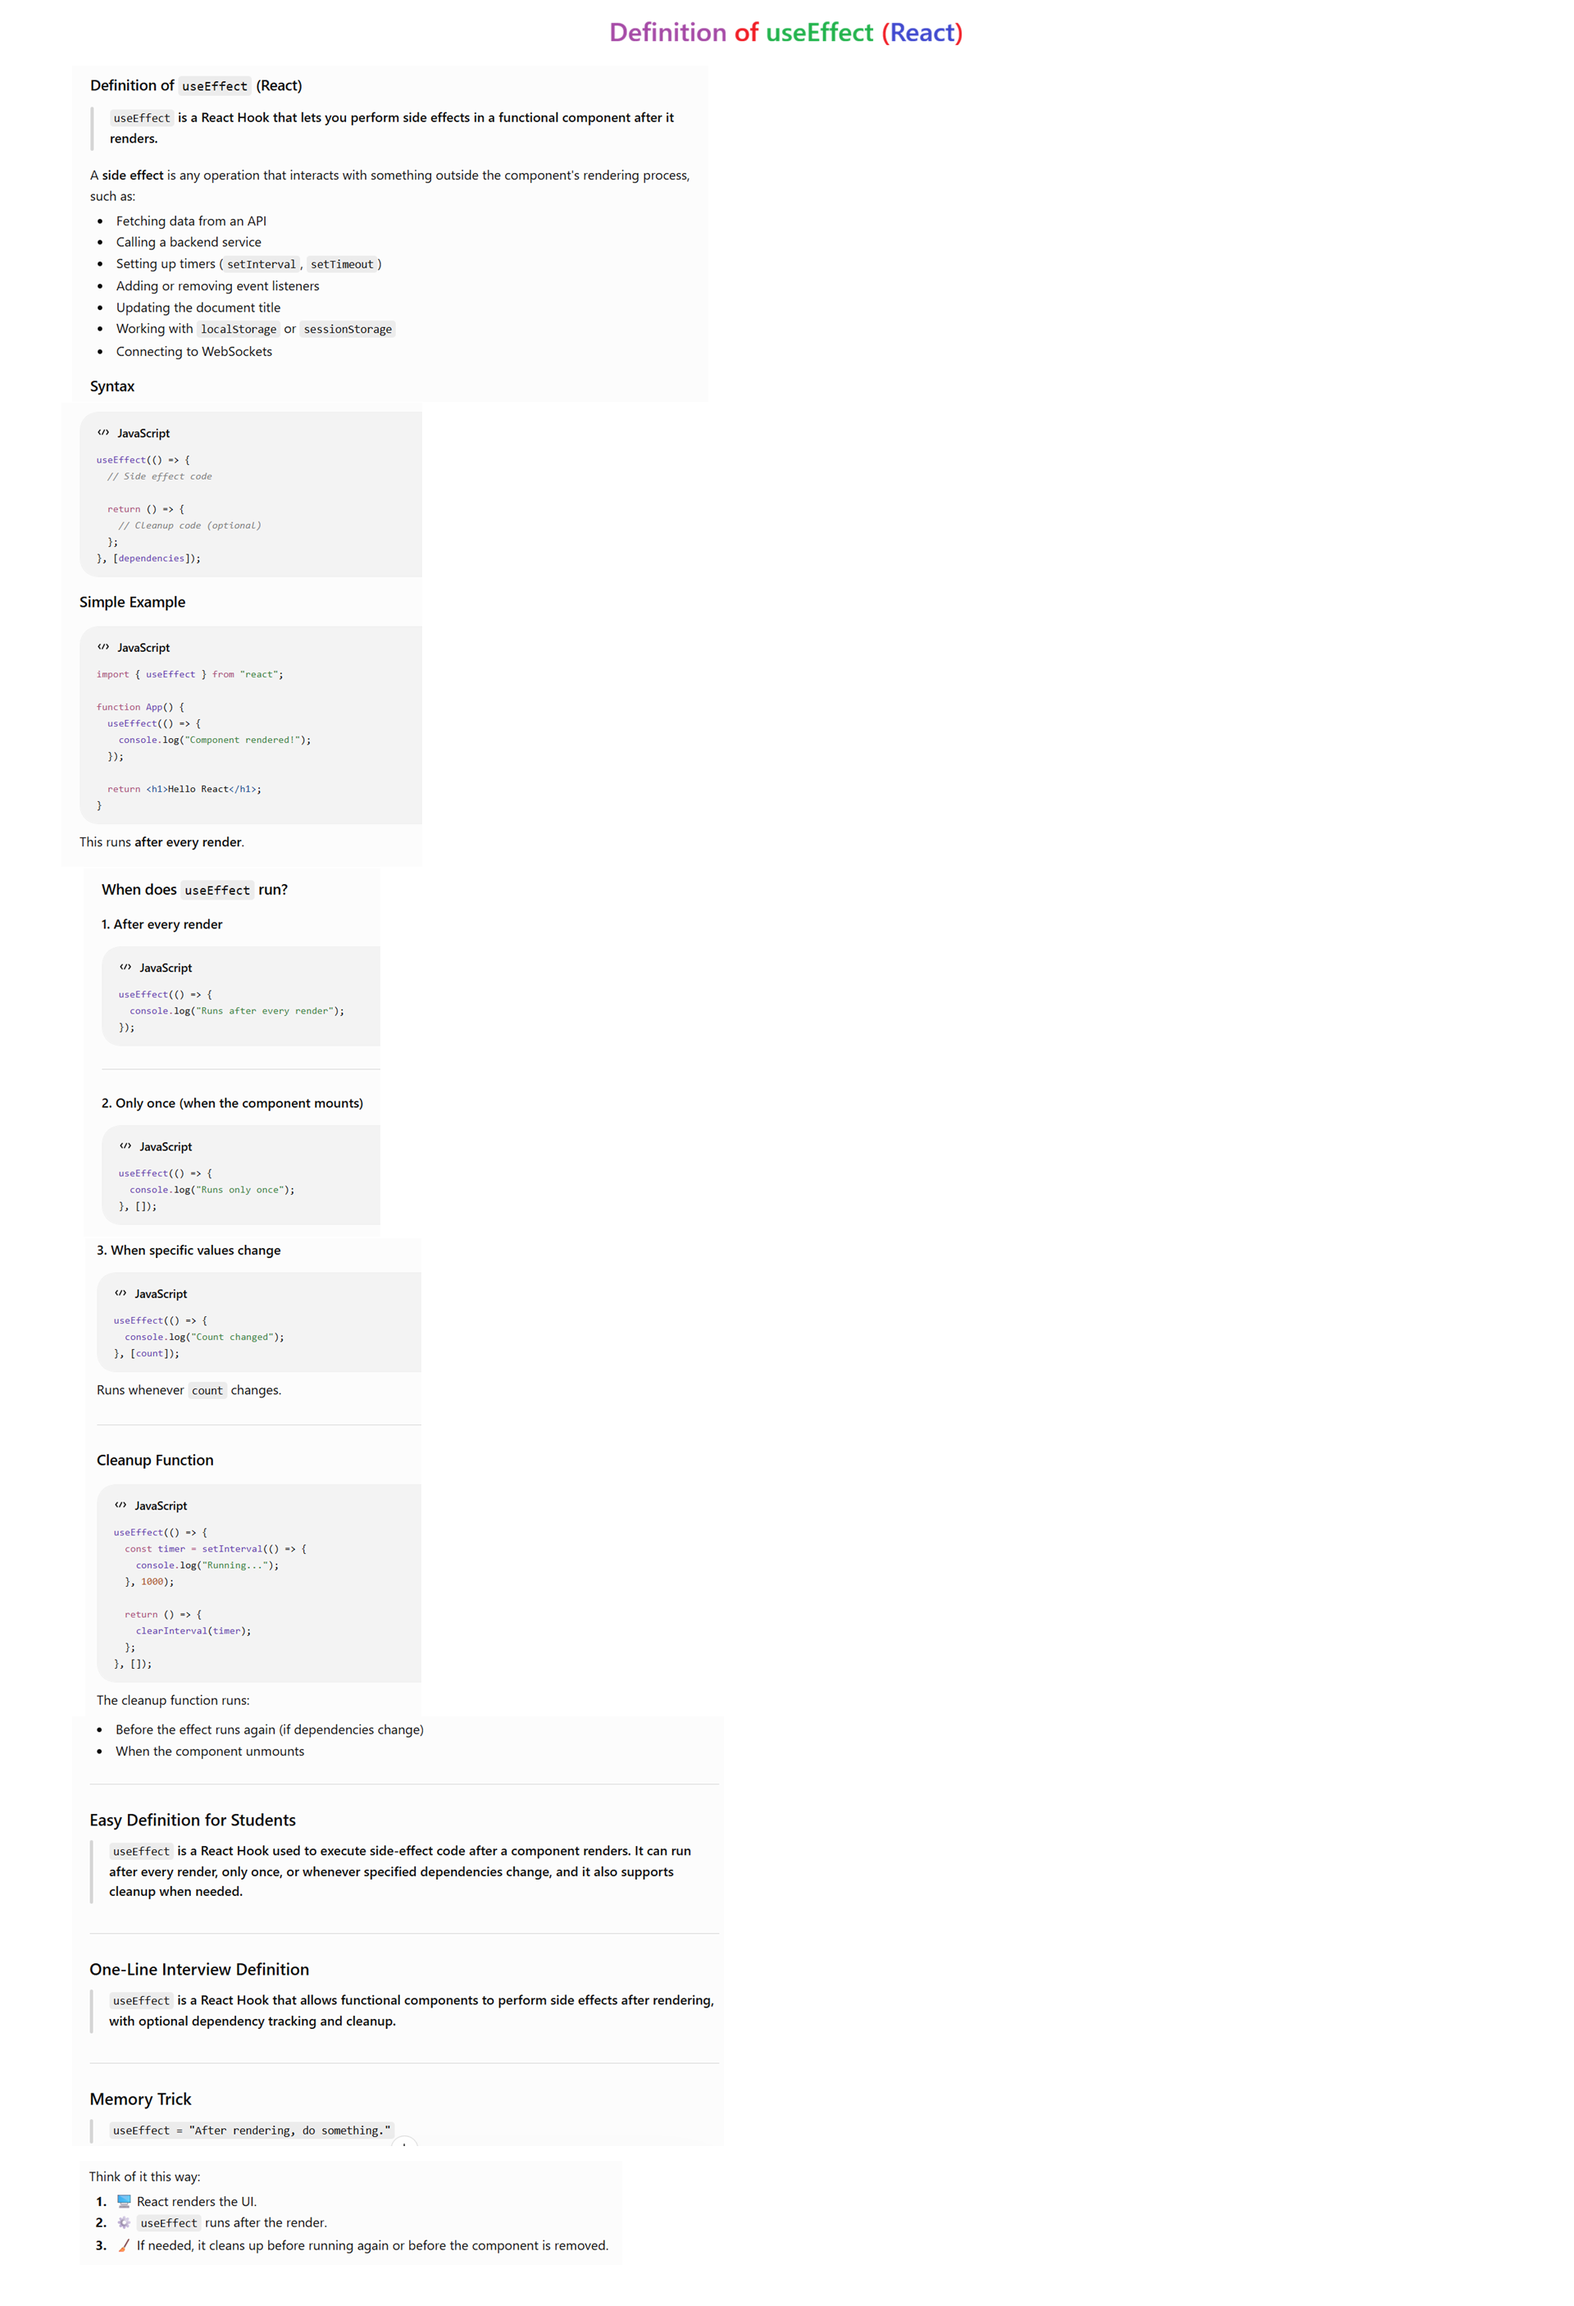
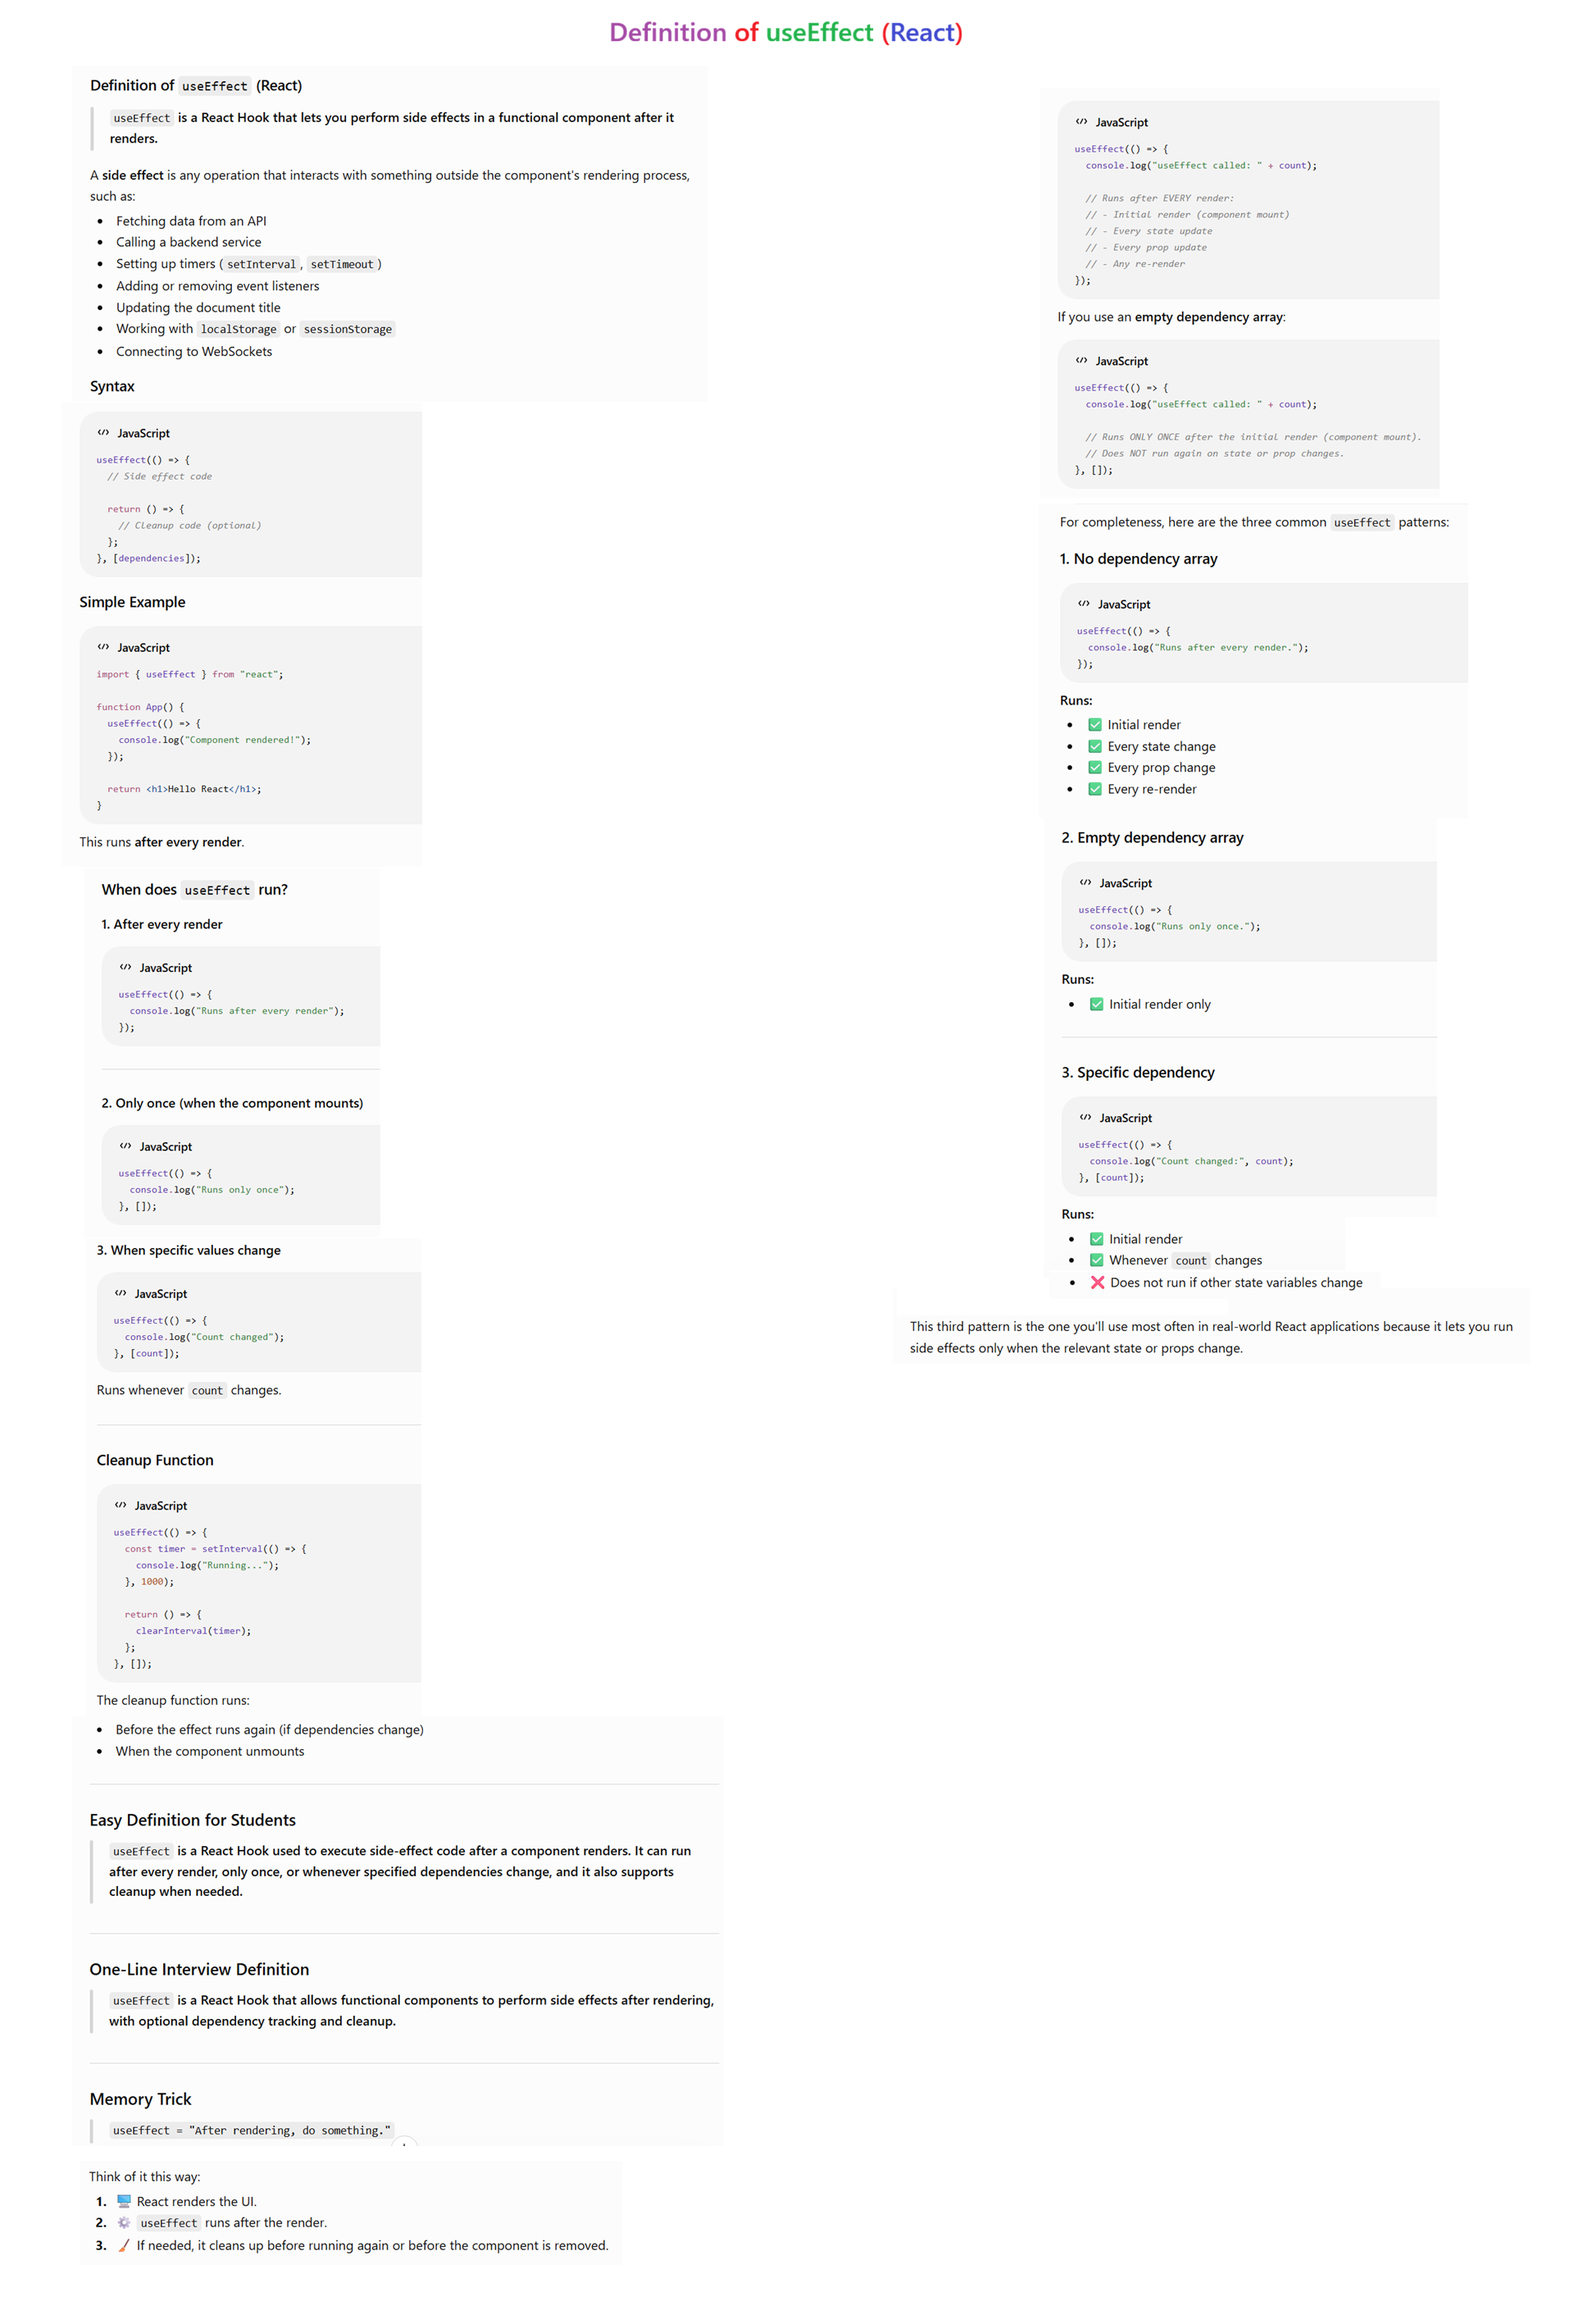
added some notes on useState and useEffect

diff --git a/my-react-app/src -M3-Lesson-4-useState and useEffect-IMP/Timer.jsx b/my-react-app/src -M3-Lesson-4-useState and useEffect-IMP/Timer.jsx
@@ -1,28 +1,34 @@
-import React, { useState, useEffect } from 'react';
+import React, { useState, useEffect } from "react";
 
 //USE EFFECT HOOK EXAMPLE
 // This component demonstrates a simple timer using the useEffect hook
 const Timer = () => {
-    const [count, setCount] = useState(0);
+  const [count, setCount] = useState(0);
 
-    // Event handler to increment count
-    const incrementCount = () => {
-        //setCount(count + 1);//RISKY'
-        setCount(prevCount => prevCount + 1); // safer way to update state based on previous value
-    };
+  // Event handler to increment count
+  const incrementCount = () => {
+    //setCount(count + 1);//RISKY'
+    setCount((prevCount) => prevCount + 1); // safer way to update state based on previous value
+  };
 
-    //-----------------1111111111111111------------------------
-    useEffect(() => {
-        console.log('useEffect called : ' + count);       
-    }, []);
-    //});
+  //-----------------1111111111111111------------------------
+  /*
+    Runs:
+        ✅ Initial render
+        ✅ Every state change
+        ✅ Every prop change
+        ✅ Every re-render
+    */
+  useEffect(() => {
+    console.log("useEffect called : " + count);
+    //}, []);
+  });
 
-    //------------------22222222222222-----------------------
+  //------------------22222222222222-----------------------
 
-    // useEffect runs after the component renders
-    /* useEffect(() => {
+  // useEffect runs after the component renders
+  /* useEffect(() => {
         console.log('Component mounted or count updated');
-
         const timer = setInterval(() => {            
             setCount(prevCount => prevCount + 1);
         }, 1000);
@@ -32,16 +38,30 @@ const Timer = () => {
             clearInterval(timer);
             console.log('Timer cleared');
         };
-        }, []);  *///--> 1.Runs only once on mount because the dependency array is empty
-    //}, [count]); //--> 2.Runs on specific state change
-    //});//--> 3.Run on every render (not recommended) 
-    //-------------------------------------------------------------------
-    return (
-        <div>
-            <h2>Timer: {count} seconds</h2>
-            <button onClick={incrementCount}>Increment</button>
-        </div>
-    );
+        }, []);  */ //--> 1.Runs only once on mount because the dependency array is empty
+  //}, [count]); //--> 2.Runs after the initial render and whenever 'count' changes.
+  //});//--> 3.uns after every render (usually avoid unless needed). (not recommended)
+  //-------------------------------------------------------------------
+  //------------------33333333333333333333-----------------------
+  /*  useEffect(() => {
+    console.log("Effect");
+
+    const timer = setInterval(() => {
+      console.log("Timer running...");
+      setCount((prevCount) => prevCount + 1);
+    }, 1000);
+
+    return () => {
+      console.log("Cleanup");
+      clearInterval(timer);
+    };
+  }, [count]); */
+  return (
+    <div>
+      <h2>Timer: {count} seconds</h2>
+      <button onClick={incrementCount}>Increment</button>
+    </div>
+  );
 };
 
 export default Timer;
@@ -52,4 +72,65 @@ they come out of the box with the browser (and Node.js), not React.
 🔹 What is setInterval?
 setInterval is a built-in JavaScript function that repeatedly executes a function 
 after a specified time interval (in milliseconds).
+*/
+/*
+You can add these comments:
+
+useEffect(() => {
+  console.log("useEffect called: " + count);
+
+  // Runs after EVERY render:
+  // - Initial render (component mount)
+  // - Every state update
+  // - Every prop update
+  // - Any re-render
+});
+
+If you use an empty dependency array:
+
+useEffect(() => {
+  console.log("useEffect called: " + count);
+
+  // Runs ONLY ONCE after the initial render (component mount).
+  // Does NOT run again on state or prop changes.
+}, []);
+
+For completeness, here are the three common useEffect patterns:
+
+1. No dependency array
+useEffect(() => {
+  console.log("Runs after every render.");
+});
+
+Runs:
+
+✅ Initial render
+✅ Every state change
+✅ Every prop change
+✅ Every re-render
+2. Empty dependency array
+useEffect(() => {
+  console.log("Runs only once.");
+}, []);
+
+Runs:
+
+✅ Initial render only
+3. Specific dependency
+useEffect(() => {
+  console.log("Count changed:", count);
+}, [count]);
+
+Runs:
+
+✅ Initial render
+✅ Whenever count changes
+❌ Does not run if other state variables change
+
+This third pattern is the one you'll use most often in real-world 
+React applications because it lets you run side effects only when the 
+relevant state or props change.
+*/
+/*
+//------------------333333333333333-----------------------
 */

diff --git a/my-react-app/src -M3-Lesson-4-useState and useEffect-IMP/App.jsx b/my-react-app/src -M3-Lesson-4-useState and useEffect-IMP/App.jsx
@@ -1,37 +1,26 @@
-import { useState, useEffect } from 'react';
-import './App.css';
+import "./App.css";
+import Counter from "./Counter"; //useState
+import Timer from "./Timer"; //useEffect
+
+import CounterMessage from "./CounterMessage"; //Assignment on useState
+import LiveCharCounter from "./LiveCharCounter"; //Assignment on useEffect
 
 function App() {
-  const [data, setData] = useState([]);
-
-  const fetchData = async () => {
-    try {
-      const response = await fetch("https://jsonplaceholder.typicode.com/users");
-      console.log(response);
-      if (!response.ok) throw new Error("Network response was not ok");
-      const datax = await response.json();
-      console.log(datax);
-      setData(datax);
-    } catch (error) {
-      console.error("Error fetching data:", error);
-    }
-  };
-  //fetchData();
-  //Runs infinitely if we call fetchData() directly inside your component:
-  useEffect(() => {
-    //fetchData();
-  }, []);
-
   return (
     <>
-      <h2>Fetched Data</h2>
-      <ul>
-        {data.map((user) => (
-          <li key={user.id}>
-            {user.name} - {user.email}
-          </li>
-        ))}
-      </ul>
+      <div className="App">
+        {/*  USE STATE DEMO */}
+        {/* <Counter /> */}
+
+        {/* USE EFFECT DEMO */}
+        <Timer />
+
+        {/* ASSIGNMENT ON USE STATE */}
+        {/* <CounterMessage /> */}
+
+        {/* ASSIGNMENT ON USE EFFECT */}
+        {/* <LiveCharCounter /> */}
+      </div>
     </>
   );
 }
